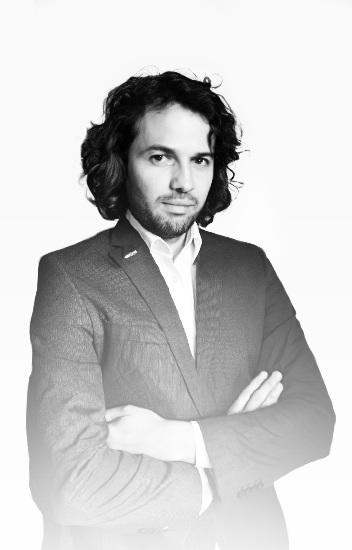
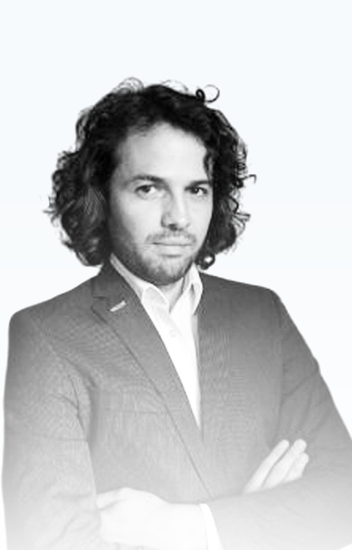
Team Cards Update

diff --git a/index.php b/index.php
@@ -511,12 +511,17 @@
                         <div class="item">
                             <div class="roadmap_box">
                                 <div class="roadmap_inner">
-                                    <div class="sk-folding-cube mask">
+                                    <div class="sk-cube-grid">
                                         <div class="spinner_square"></div>
-                                        <div class="sk-cube1 sk-cube"></div>
-                                        <div class="sk-cube2 sk-cube"></div>
-                                        <div class="sk-cube4 sk-cube"></div>
-                                        <div class="sk-cube3 sk-cube"></div>
+                                        <div class="sk-cube sk-cube1"></div>
+                                        <div class="sk-cube sk-cube2"></div>
+                                        <div class="sk-cube sk-cube3"></div>
+                                        <div class="sk-cube sk-cube4"></div>
+                                        <div class="sk-cube sk-cube5"></div>
+                                        <div class="sk-cube sk-cube6"></div>
+                                        <div class="sk-cube sk-cube7"></div>
+                                        <div class="sk-cube sk-cube8"></div>
+                                        <div class="sk-cube sk-cube9"></div>
                                     </div>
                                     <h6 class="animation" data-animation="fadeInUp" data-animation-delay="0.3s">Q3 2019</h6>
                                     <p class="animation lang" key="ROADMAP_05" data-animation="fadeInUp" data-animation-delay="0.4s">
@@ -884,7 +889,7 @@
                                 <div class="job">
                                     Operations Manager
                                 </div>
-                                <p>Insert text here.</p>
+                                <p></p>
                                 <div class="social">
                                     <a href="https://www.linkedin.com/in/titus-pal-19295082/" target="_blank">
                                         <svg role="img" viewBox="0 0 24 24" xmlns="http://www.w3.org/2000/svg">
@@ -916,7 +921,7 @@
                                 <div class="job lang" key="TEAM_03">
                                     Community Manager
                                 </div>
-                                <p>Insert text here.</p>
+                                <p></p>
                                 <div class="social">
                                     <a href="https://www.linkedin.com/in/abeldragomir/" target="_blank">
                                         <svg role="img" viewBox="0 0 24 24" xmlns="http://www.w3.org/2000/svg">
@@ -948,7 +953,7 @@
                                 <div class="job lang" key="TEAM_04">
                                     Legal Adviser
                                 </div>
-                                <p>Insert text here</p>
+                                <p></p>
                                 <div class="social">
                                     <a href="https://www.linkedin.com/in/ion-mazilu-krall-51291972" target="_blank">
                                         <svg role="img" viewBox="0 0 24 24" xmlns="http://www.w3.org/2000/svg">
@@ -961,7 +966,7 @@
                         </div>
                     </div>
 
-                    <div class="col-6 col-lg-3 col-md-4 col-sm-4 animation" data-animation="fadeInDown" data-animation-delay="0.6s">
+                    <!-- <div class="col-6 col-lg-3 col-md-4 col-sm-4 animation" data-animation="fadeInDown" data-animation-delay="0.6s">
                         <div class="team-item">
                             <div class="hover-back"></div>
                             <img class="img-fluid" src="assets/images/team/00.png" alt="">
@@ -980,7 +985,7 @@
                                 <div class="job">
 
                                 </div>
-                                <p>Insert text here</p>
+                                <p></p>
                                 <div class="social">
                                     <a href="https://www.linkedin.com/in/vlad-cosma-66b272125/" target="_blank">
                                         <svg role="img" viewBox="0 0 24 24" xmlns="http://www.w3.org/2000/svg">
@@ -991,7 +996,7 @@
                                 </div>
                             </div>
                         </div>
-                    </div>
+                    </div> -->
 
                     <div class="col-6 col-lg-3 col-md-4 col-sm-4 animation" data-animation="fadeInDown" data-animation-delay="0.7s">
                         <div class="team-item">
@@ -1060,7 +1065,7 @@
                     <div class="col-6 col-lg-3 col-md-4 col-sm-4 animation" data-animation="fadeInDown" data-animation-delay="0.9s">
                         <div class="team-item">
                             <div class="hover-back"></div>
-                            <img class="img-fluid" src="assets/images/team/00.png" alt="">
+                            <img class="img-fluid" src="assets/images/team/10.png" alt="">
                             <div class="info-top">
                                 <div class="name">
                                     Dragos Ungur
@@ -1260,7 +1265,7 @@
                                 <div class="job lang" key="TEAM_05">
                                     Graphic Designer
                                 </div>
-                                <p>Insert text here</p>
+                                <p></p>
                                 <div class="social">
                                     <a href="https://www.linkedin.com/in/alex-barbulescu-78b46a1b/" target="_blank">
                                         <svg role="img" viewBox="0 0 24 24" xmlns="http://www.w3.org/2000/svg">
@@ -1547,6 +1552,15 @@
         });
     </script>
 
-</body>
+    <!-- Global site tag (gtag.js) - Google Analytics -->
+    <script async src="https://www.googletagmanager.com/gtag/js?id=UA-123257907-1%22%3E"></script>
+    <script>
+    window.dataLayer = window.dataLayer || [];
+    function gtag(){dataLayer.push(arguments);}
+    gtag('js', new Date());
 
+    gtag('config', 'UA-123257907-1');
+    </script>
+
+</body>
 </html>
